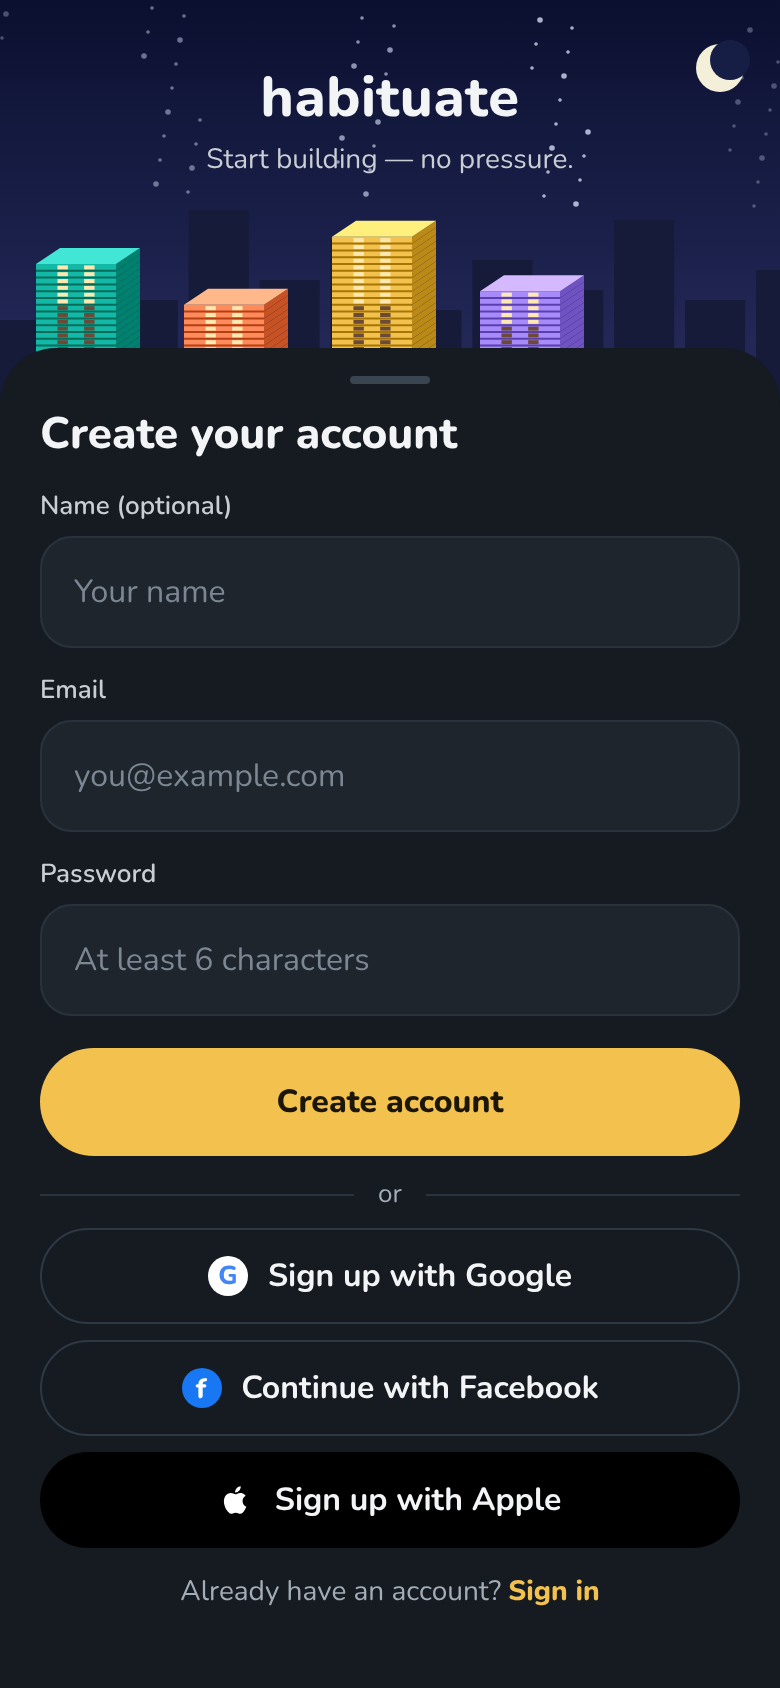
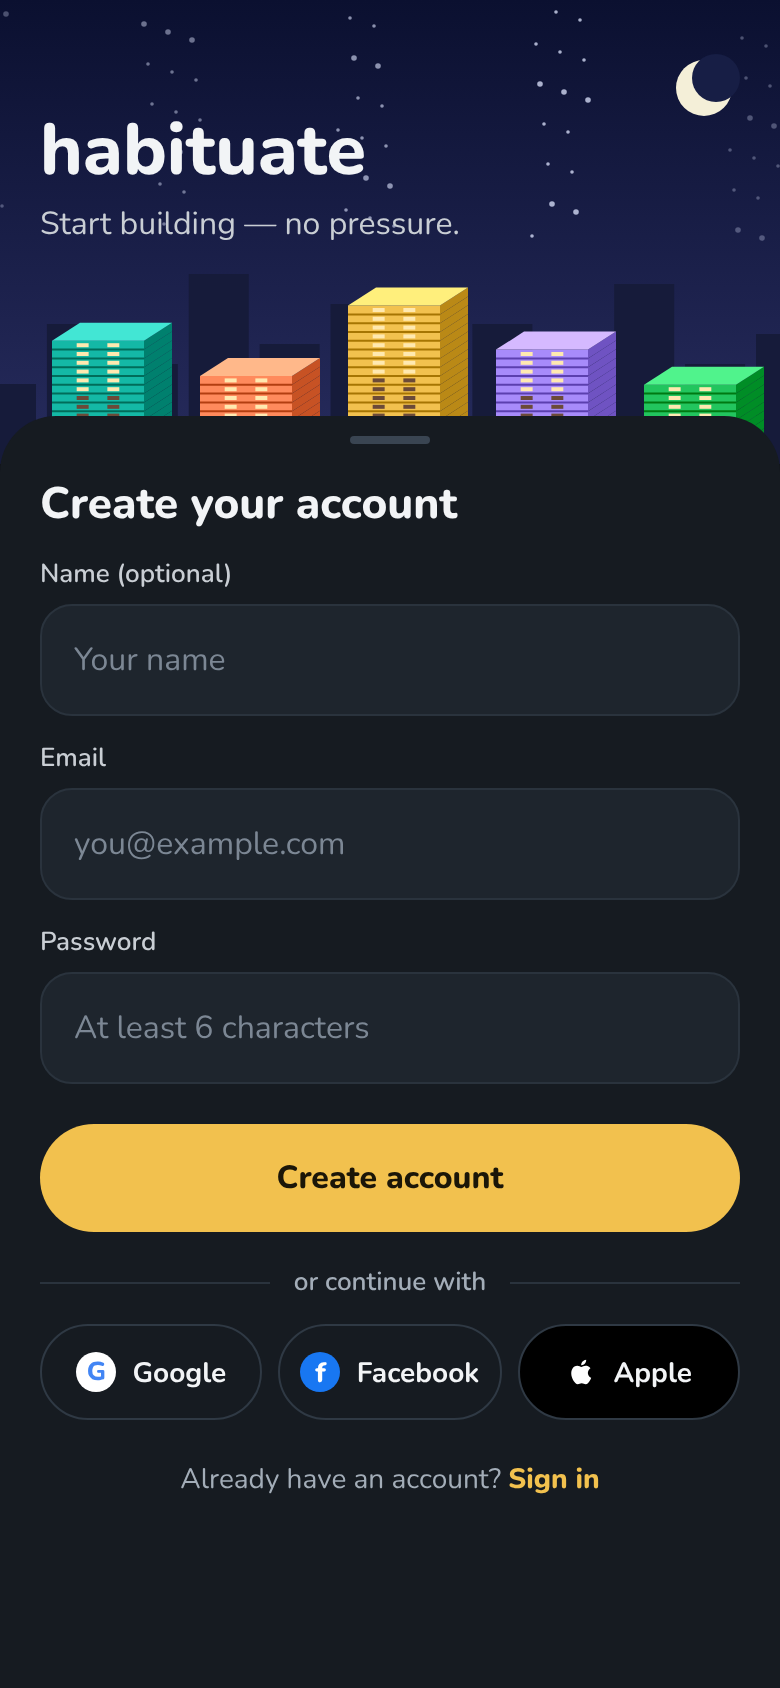
Login and create account v2 to the design system
Claude-Session: https://claude.ai/code/session_01UvWD32uMFJU1E2B9jDYiLg

diff --git a/design/skyline/source/rd.js b/design/skyline/source/rd.js
@@ -131,20 +131,22 @@ if(S==='rd-sn'){document.body.style.width="820px";document.body.style.height="47
   <rect x="336" y="262" width="44" height="22" rx="4" fill="none" stroke="${at?'#F2C14E':'#7A86A8'}" stroke-width="1.6" stroke-dasharray="5 4"/><text x="358" y="256" text-anchor="middle" font-size="22" font-weight="600" fill="#fff" font-family="Nunito">+</text><text x="358" y="318" text-anchor="middle" font-size="12" font-weight="700" fill="${at?'#F2C14E':'#A3ADB8'}" font-family="Nunito">${lab}</text></svg></div>`};
  R.innerHTML=`<div style="position:absolute;inset:0;background:#0F1216;padding:16px 16px 0"><div style="display:flex;gap:16px">${crop('1 left',0)}${crop('Unlock',1)}</div><div style="display:flex;gap:16px;margin-top:8px"><div style="width:390px;font-size:13px;color:#C9CED4;line-height:1.4"><b>Near the cap (4 of 5 daily)</b>: the label under the empty lot reads "1 left" in meta grey (12 / 400). The lot still starts a new tower.</div><div style="width:390px;font-size:13px;color:#C9CED4;line-height:1.4"><b>At the cap (5 of 5 daily)</b>: the lot outline and label turn amber and read "Unlock". Tapping opens the create form as usual; Save then shows the paywall.</div></div></div>`;}
 
-// ---- auth (boards 92-93)
-if(S==='rd-li'||S==='rd-su'){const su=S==='rd-su';const HH=su?200:250;
- const T=[['#14B8A6',20,6,18],['#FF8A5C',14,9,92],['#F2C14E',24,10,166],['#A78BFA',16,5,240],['#22C55E',12,8,314]];
- const fld=(l,ph)=>`<div style="font-size:13px;font-weight:600;color:#C9CED4;margin:12px 0 6px">${l}</div><div style="height:56px;border-radius:16px;background:#1E252D;border:1px solid #2A333D;display:flex;align-items:center;padding:0 16px;font-size:16px;color:#7C8794">${ph}</div>`;
- const soc=(ic,t,st='')=>`<div style="height:48px;border-radius:24px;border:1.5px solid #2F3944;display:flex;align-items:center;justify-content:center;gap:10px;font-size:16px;font-weight:700;margin-top:8px;${st}">${ic}${t}</div>`;
- const g=`<i style="width:20px;height:20px;border-radius:10px;background:#fff;color:#4285F4;font-size:13px;font-weight:800;display:flex;align-items:center;justify-content:center;font-style:normal">G</i>`,f=`<i style="width:20px;height:20px;border-radius:10px;background:#1877F2;color:#fff;font-size:14px;font-weight:800;display:flex;align-items:center;justify-content:center;font-style:normal">f</i>`,ap=`<svg width="18" height="18" viewBox="0 0 24 24" fill="#fff"><path d="M16.4 12.6c0-2.3 1.9-3.4 2-3.5-1.1-1.6-2.8-1.8-3.4-1.8-1.4-.1-2.8.9-3.5.9s-1.8-.8-3-.8c-1.5 0-3 .9-3.800 2.300-1.600 2.800-.4 6.900 1.200 9.200.8 1.100 1.700 2.300 2.900 2.300 1.200 0 1.600-.7 3-.7s1.800.7 3 .7c1.300 0 2.100-1.100 2.800-2.200.9-1.300 1.300-2.500 1.300-2.600-.1 0-2.500-1-2.500-3.800ZM14.200 5.700c.6-.8 1.100-1.800.9-2.900-.9 0-2 .6-2.700 1.400-.6.700-1.100 1.800-1 2.800 1 .1 2-.5 2.800-1.300Z"/></svg>`;
- const face=`<svg width="20" height="20" viewBox="0 0 24 24" fill="none" stroke="#F2F4F6" stroke-width="2" stroke-linecap="round"><path d="M4 8V5a1 1 0 0 1 1-1h3M16 4h3a1 1 0 0 1 1 1v3M20 16v3a1 1 0 0 1-1 1h-3M8 20H5a1 1 0 0 1-1-1v-3M9 10v2M15 10v2M9 16c1.500 1 4.500 1 6 0"/></svg>`;
- R.innerHTML=`<div style="position:absolute;inset:0;overflow:hidden;background:#0F1216"><svg width="390" height="${HH+30}" style="position:absolute;top:0;left:0">${skyArt('night',390,HH+30,HH).replace(/<circle[^>]*fill="#F4EFD8"[^>]*\/>/,'<circle cx="360" cy="34" r="12" fill="#F4EFD8"/>').replace(/<circle[^>]*fill="#171E45"[^>]*\/>/,'<circle cx="365" cy="30" r="10" fill="#171E45"/>')}${T.slice(0,su?4:5).map(([c,n,l,x])=>tw(c,{x:x,base:HH,w:40,fh:su?3.4:4.2,dx:12,dy:8,floors:fl(n,l),windows:2,today:false})).join('')}</svg>
- <div style="position:absolute;left:0;right:0;top:${su?30:44}px;text-align:center"><div style="font-size:28px;font-weight:800;letter-spacing:.3px">habituate</div><div style="font-size:14px;color:#C9CED4;margin-top:2px">${su?'Start building — no pressure.':'Build habits that stick — together.'}</div></div>
- <div style="position:absolute;top:${HH-26}px;left:0;right:0;bottom:0;background:#161B21;border-radius:28px 28px 0 0;padding:6px 20px 0"><div style="width:40px;height:4px;border-radius:2px;background:#3A4552;margin:8px auto 4px"></div>
- <div style="font-size:22px;font-weight:800;margin-top:10px">${su?'Create your account':'Welcome back'}</div>
+// ---- auth (boards 92-93), design system: hero 36/800, message 16/400, sheet title 22/800, label 13/600, input 56, primary 54, secondary 48, meta 12-14
+if(S==='rd-li'||S==='rd-su'){const su=S==='rd-su';const HH=su?232:300;
+ const T=su?[['#14B8A6',14,6,26],['#FF8A5C',10,6,100],['#F2C14E',18,8,174],['#A78BFA',13,5,248],['#22C55E',9,6,322]]:[['#14B8A6',20,7,10],['#FF8A5C',14,8,84],['#F2C14E',24,9,158],['#A78BFA',18,6,232],['#22C55E',11,7,306]];
+ const fld=(l,ph)=>`<div style="font-size:13px;font-weight:600;line-height:18px;color:#C9CED4;margin-top:12px">${l}</div><div style="height:56px;border-radius:16px;background:#1E252D;border:1px solid #2A333D;display:flex;align-items:center;padding:0 16px;font-size:16px;color:#7C8794;margin-top:6px">${ph}</div>`;
+ const pill=(ic,t,st='')=>`<div style="flex:1;height:48px;border-radius:24px;border:1.5px solid #2F3944;display:flex;align-items:center;justify-content:center;gap:8px;font-size:14px;font-weight:700;${st}">${ic}${t}</div>`;
+ const g=`<i style="width:20px;height:20px;border-radius:10px;background:#fff;color:#4285F4;font-size:13px;font-weight:800;display:flex;align-items:center;justify-content:center;font-style:normal">G</i>`,f=`<i style="width:20px;height:20px;border-radius:10px;background:#1877F2;color:#fff;font-size:14px;font-weight:800;display:flex;align-items:center;justify-content:center;font-style:normal">f</i>`,ap=`<svg width="16" height="16" viewBox="0 0 24 24" fill="#fff"><path d="M16.4 12.6c0-2.3 1.9-3.4 2-3.5-1.1-1.6-2.8-1.8-3.4-1.8-1.4-.1-2.8.9-3.5.9s-1.8-.8-3-.8c-1.5 0-3 .9-3.8 2.3-1.6 2.8-.4 6.9 1.2 9.2.8 1.1 1.7 2.3 2.9 2.3 1.2 0 1.6-.7 3-.7s1.8.7 3 .7c1.3 0 2.1-1.1 2.8-2.2.9-1.3 1.3-2.5 1.3-2.6-.1 0-2.5-1-2.5-3.8ZM14.2 5.7c.6-.8 1.1-1.8.9-2.9-.9 0-2 .6-2.7 1.4-.6.7-1.1 1.8-1 2.8 1 .1 2-.5 2.8-1.3Z"/></svg>`;
+ const face=`<svg width="20" height="20" viewBox="0 0 24 24" fill="none" stroke="#F2C14E" stroke-width="2" stroke-linecap="round"><path d="M4 8V5a1 1 0 0 1 1-1h3M16 4h3a1 1 0 0 1 1 1v3M20 16v3a1 1 0 0 1-1 1h-3M8 20H5a1 1 0 0 1-1-1v-3M9 10v2M15 10v2M9 16c1.5 1 4.5 1 6 0"/></svg>`;
+ const sky=skyArt('night',390,HH+30,HH).replace(/<circle[^>]*fill="#F4EFD8"[^>]*\/>/,'<circle cx="352" cy="44" r="14" fill="#F4EFD8"/>').replace(/<circle[^>]*fill="#171E45"[^>]*\/>/,'<circle cx="358" cy="39" r="12" fill="#171E45"/>');
+ R.innerHTML=`<div style="position:absolute;inset:0;overflow:hidden;background:#0F1216"><svg width="390" height="${HH+30}" style="position:absolute;top:0;left:0">${sky}${T.map(([c,n,l,x])=>tw(c,{x,base:HH,w:46,fh:su?4.4:5.6,dx:14,dy:9,floors:fl(n,l),windows:2,today:false})).join('')}</svg>
+ <div style="position:absolute;left:20px;right:20px;top:${su?56:72}px"><div style="font-size:36px;line-height:40px;font-weight:800">habituate</div><div style="font-size:16px;line-height:24px;color:#C9CED4;margin-top:4px">${su?'Start building — no pressure.':'Build habits that stick — together.'}</div></div>
+ <div style="position:absolute;top:${HH-24}px;left:0;right:0;bottom:0;background:#161B21;border-radius:28px 28px 0 0;padding:0 20px"><div style="width:40px;height:4px;border-radius:2px;background:#3A4552;margin:10px auto 0"></div>
+ <div style="font-size:22px;line-height:28px;font-weight:800;margin-top:16px">${su?'Create your account':'Welcome back'}</div>
  ${su?fld('Name (optional)','Your name')+fld('Email','you@example.com')+fld('Password','At least 6 characters'):fld('Username or email','yourname or you@example.com')+fld('Password','••••••••')}
- <div style="margin-top:16px;height:54px;border-radius:27px;background:#F2C14E;color:#1b1608;font-size:16px;font-weight:800;display:flex;align-items:center;justify-content:center">${su?'Create account':'Sign in'}</div>
- <div style="display:flex;align-items:center;gap:12px;margin:10px 0 2px;color:#A3ADB8;font-size:13px"><i style="flex:1;height:1px;background:#2A333D;display:block"></i>or<i style="flex:1;height:1px;background:#2A333D;display:block"></i></div>
- ${soc(g,su?'Sign up with Google':'Sign in with Google')}${soc(f,'Continue with Facebook')}${soc(ap,su?'Sign up with Apple':'Sign in with Apple','background:#000;border-color:#000')}${su?'':soc(face,'Sign in with Face ID','border-style:dashed')}
- <div style="text-align:center;font-size:14px;color:#A3ADB8;margin-top:12px">${su?'Already have an account? ':'New here? '}<b style="color:#F2C14E;font-weight:800">${su?'Sign in':'Create an account'}</b></div></div></div>`;}
+ <div style="margin-top:20px;height:54px;border-radius:27px;background:#F2C14E;color:#1b1608;font-size:16px;font-weight:800;display:flex;align-items:center;justify-content:center">${su?'Create account':'Sign in'}</div>
+ <div style="display:flex;align-items:center;gap:12px;margin-top:16px;color:#A3ADB8;font-size:13px;font-weight:600"><i style="flex:1;height:1px;background:#2A333D;display:block"></i>or continue with<i style="flex:1;height:1px;background:#2A333D;display:block"></i></div>
+ <div style="display:flex;gap:8px;margin-top:12px">${pill(g,'Google')}${pill(f,'Facebook')}${pill(ap,'Apple','background:#000;border-color:#2F3944')}</div>
+ ${su?'':`<div style="height:48px;display:flex;align-items:center;justify-content:center;gap:8px;font-size:14px;font-weight:700;color:#F2C14E;margin-top:8px">${face}Sign in with Face ID</div>`}
+ <div style="text-align:center;font-size:14px;line-height:20px;color:#A3ADB8;margin-top:${su?20:8}px">${su?'Already have an account? ':'New here? '}<b style="color:#F2C14E;font-weight:800">${su?'Sign in':'Create an account'}</b></div></div></div>`;}
 })();

diff --git a/design/skyline/README.md b/design/skyline/README.md
@@ -149,3 +149,5 @@ Free caps: 5 daily, 1 weekly, 1 monthly, 2 Shield Days. Ask Habituate is not par
 | 92 | `92-login.png` | Night skyline hero with five towers, "habituate" wordmark and the tagline "Build habits that stick — together." A sheet-style card below: "Welcome back", Username or email, Password (inputs 56), Sign in (54), "or", Google, Facebook, Apple (black, iOS only), Face ID (only when biometrics are set up), "New here? Create an account". An error message (from `err.message`) shows as meta text under the Password field. |
 | 93 | `93-create-account.png` | Same look, shorter hero. "Create your account", Name (optional), Email, Password, Create account, the three social sign-ups, "Already have an account? Sign in". Tagline "Start building — no pressure." |
 Same fields, order and actions as today's LoginScreen and SignupScreen; only the look changes. Third-party buttons follow each provider's brand rules in the build.
+
+**Login v2 (2026-11-25):** redrawn to the design system after the owner said v1 was not good. Hero wordmark 36/800 and tagline 16/400 (message), sheet title 22/800, labels 13/600, inputs 56 radius 16, Sign in 54, three equal 48 pills for Google, Facebook and Apple under "or continue with", Face ID as a compact link, footer 14. Towers sit clear of the text. Awaiting the owner's approval.
